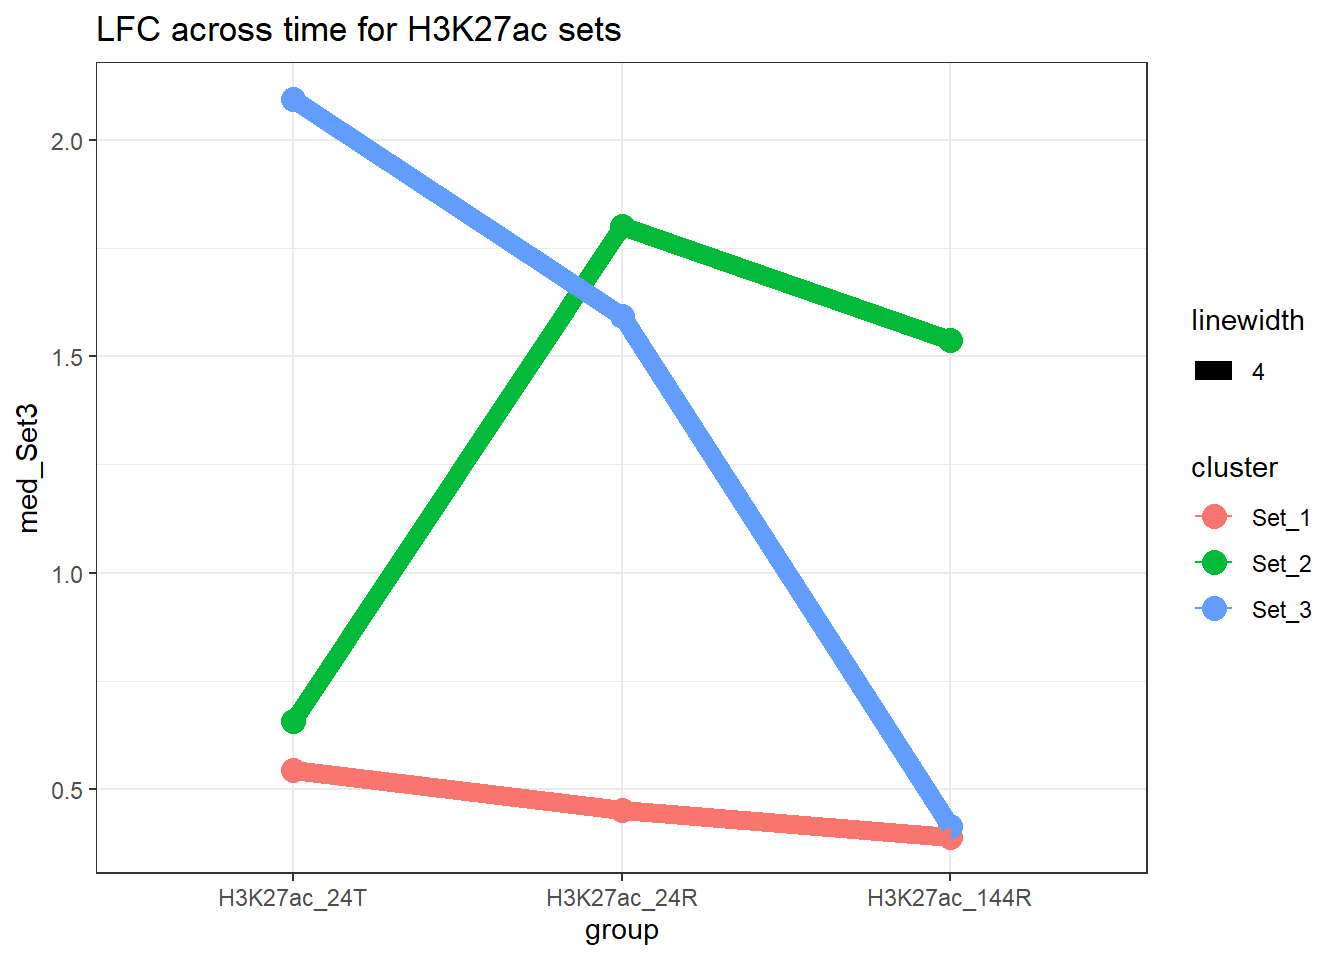
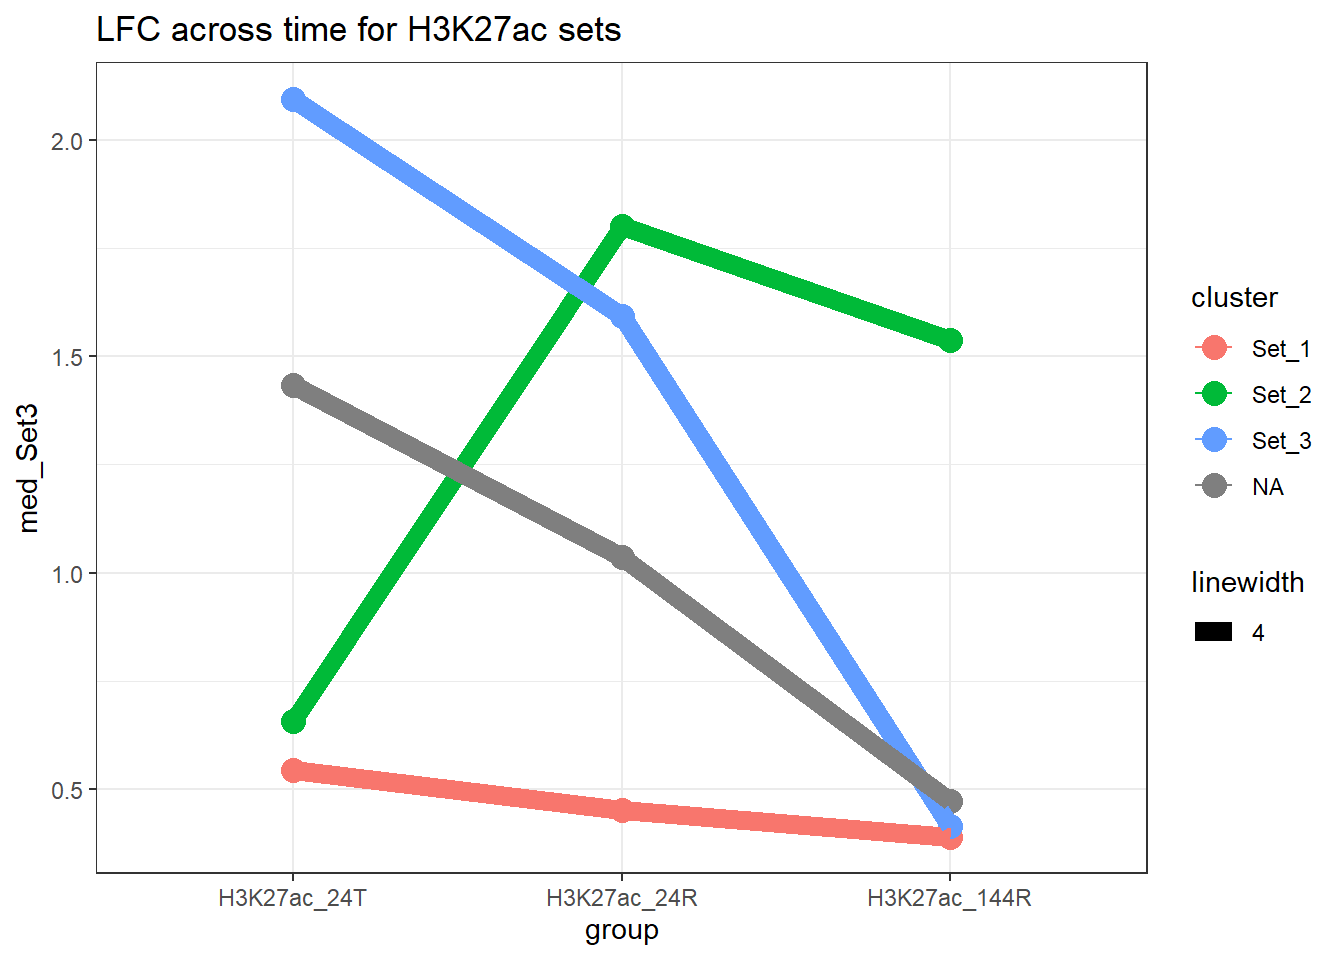
Build site.

diff --git a/docs/Main_fig1.html b/docs/Main_fig1.html
@@ -11,7 +11,7 @@
 
 <meta name="author" content="Renee Matthews" />
 
-<meta name="date" content="2026-07-20" />
+<meta name="date" content="2026-08-21" />
 
 <title>Main_fig1</title>
 
@@ -361,7 +361,7 @@ div.tocify {
 
 <h1 class="title toc-ignore">Main_fig1</h1>
 <h4 class="author">Renee Matthews</h4>
-<h4 class="date">2026-07-20</h4>
+<h4 class="date">2026-08-21</h4>
 
 </div>
 
@@ -390,7 +390,7 @@ class="glyphicon glyphicon-ok text-success" aria-hidden="true"></span>
 <div class="tab-content">
 <div id="summary" class="tab-pane fade in active">
 <p>
-<strong>Last updated:</strong> 2026-07-20
+<strong>Last updated:</strong> 2026-08-21
 </p>
 <p>
 <strong>Checks:</strong> <span
@@ -521,15 +521,15 @@ project makes it easier to run your code on other machines.</p>
 <div class="panel panel-default">
 <div class="panel-heading">
 <p class="panel-title">
-<a data-toggle="collapse" data-parent="#workflowr-checks" href="#strongRepositoryversionstrongahrefhttpsgithubcomreneeisnowhereDXRcontinuetreeb9173c8154a427a58d89be79168cbc61f52759fatargetblankb9173c8a">
+<a data-toggle="collapse" data-parent="#workflowr-checks" href="#strongRepositoryversionstrongahrefhttpsgithubcomreneeisnowhereDXRcontinuetreea45ca2baa2bdefe1293c4c56df5572c2596679detargetblanka45ca2ba">
 <span class="glyphicon glyphicon-ok text-success"
 aria-hidden="true"></span> <strong>Repository version:</strong>
-<a href="https://github.com/reneeisnowhere/DXR_continue/tree/b9173c8154a427a58d89be79168cbc61f52759fa" target="_blank">b9173c8</a>
+<a href="https://github.com/reneeisnowhere/DXR_continue/tree/a45ca2baa2bdefe1293c4c56df5572c2596679de" target="_blank">a45ca2b</a>
 </a>
 </p>
 </div>
 <div
[2 lines of base64/hex data omitted]
 class="panel-collapse collapse">
 <div class="panel-body">
 <p>
@@ -539,7 +539,7 @@ reproducibility.
 </p>
 <p>
 The results in this page were generated with repository version
-<a href="https://github.com/reneeisnowhere/DXR_continue/tree/b9173c8154a427a58d89be79168cbc61f52759fa" target="_blank">b9173c8</a>.
+<a href="https://github.com/reneeisnowhere/DXR_continue/tree/a45ca2baa2bdefe1293c4c56df5572c2596679de" target="_blank">a45ca2b</a>.
 See the <em>Past versions</em> tab to see a history of the changes made
 to the R Markdown and HTML files.
 </p>
@@ -571,8 +571,6 @@ Ignored files:
     Ignored:    data/cell_line_info_.tsv
     Ignored:    data/full_p53_canonical.RDS
     Ignored:    data/full_summary_QC_metrics.txt
-    Ignored:    data/hg38_gene_promotors_2kb_up_500bp_down.bed
-    Ignored:    data/hg38_genes.bed
     Ignored:    data/lookup_table_andstuff.txt
     Ignored:    data/motif_lists/
     Ignored:    data/number_frag_peaks_summary.txt
@@ -588,22 +586,26 @@ Untracked files:
     Untracked:  analysis/H3K27ac_TE_investigation_200bp.Rmd
     Untracked:  analysis/H3K27me3_TE_investigation.Rmd
     Untracked:  analysis/H3K36me3_TE_investigation.Rmd
+    Untracked:  analysis/HIstone_supp_profiles.Rmd
     Untracked:  analysis/Top2a_Top2b_expression.Rmd
     Untracked:  analysis/drill_down_KZFPs.Rmd
     Untracked:  analysis/maps_and_plots.Rmd
     Untracked:  analysis/proteomics.Rmd
     Untracked:  code/For_john.R
-    Untracked:  code/Gene_promotor_script.R
+    Untracked:  code/RNA_gene_locations.R
+    Untracked:  code/State_color_code_igv.R
     Untracked:  code/score_phylop.py
+    Untracked:  hg38_TSS_1bp.bed
     Untracked:  other_analysis/
 
 Unstaged changes:
     Modified:   analysis/Goanalysis_TFs.Rmd
     Modified:   analysis/H3K27_TE_overlap_extend.Rmd
+    Modified:   analysis/H3K27ac_TEtype.Rmd
     Modified:   analysis/H3K27ac_cisRE.Rmd
-    Modified:   analysis/LTR10E_build.Rmd
-    Modified:   analysis/MER61E_build.Rmd
-    Modified:   analysis/chromHMM_2.Rmd
+    Modified:   analysis/chromHMM.Rmd
+    Modified:   analysis/computeMatrixplots.Rmd
+    Modified:   analysis/supp_fig.Rmd
     Modified:   code/corMotifcustom.R
 
 </code></pre>
@@ -649,6 +651,40 @@ Message
 </tr>
 </thead>
 <tbody>
+<tr>
+<td>
+Rmd
+</td>
+<td>
+<a href="https://github.com/reneeisnowhere/DXR_continue/blob/a45ca2baa2bdefe1293c4c56df5572c2596679de/analysis/Main_fig1.Rmd" target="_blank">a45ca2b</a>
+</td>
+<td>
+reneeisnowhere
+</td>
+<td>
+2026-08-21
+</td>
+<td>
+wflow_publish("analysis/Main_fig1.Rmd")
+</td>
+</tr>
+<tr>
+<td>
+html
+</td>
+<td>
+<a href="https://rawcdn.githack.com/reneeisnowhere/DXR_continue/2b5877c3215dcd197f03405c1fe7d087d7b0446c/docs/Main_fig1.html" target="_blank">2b5877c</a>
+</td>
+<td>
+reneeisnowhere
+</td>
+<td>
+2026-07-20
+</td>
+<td>
+Build site.
+</td>
+</tr>
 <tr>
 <td>
 Rmd
@@ -782,6 +818,43 @@ pca_plot(
   title = &quot;H3K27ac filtered lcpm PCA&quot;
 )   +theme_bw() </code></pre>
 <p><img src="figure/Main_fig1.Rmd/PCA-1.png" alt="" width="672" style="display: block; margin: auto;" /></p>
+<p>
+<button type="button" class="btn btn-default btn-xs btn-workflowr btn-workflowr-fig" data-toggle="collapse" data-target="#fig-PCA-1">
+Past versions of PCA-1.png
+</button>
+</p>
+<div id="fig-PCA-1" class="collapse">
+<div class="table-responsive">
+<table class="table table-condensed table-hover">
+<thead>
+<tr>
+<th>
+Version
+</th>
+<th>
+Author
+</th>
+<th>
+Date
+</th>
+</tr>
+</thead>
+<tbody>
+<tr>
+<td>
+<a href="https://github.com/reneeisnowhere/DXR_continue/blob/2b5877c3215dcd197f03405c1fe7d087d7b0446c/docs/figure/Main_fig1.Rmd/PCA-1.png" target="_blank">2b5877c</a>
+</td>
+<td>
+reneeisnowhere
+</td>
+<td>
+2026-07-20
+</td>
+</tr>
+</tbody>
+</table>
+</div>
+</div>
 <pre class="r"><code>all_H3K27ac_regions &lt;- peakAnnoList_H3K27ac$all_H3K27ac %&gt;% as.data.frame() %&gt;% dplyr::select(Peakid)
 
 all_H3K27ac_regions %&gt;%  
@@ -807,8 +880,45 @@ all_H3K27ac_regions %&gt;%
   ) +
   theme_classic()</code></pre>
 <p><img src="figure/Main_fig1.Rmd/H3K27ac_prop-1.png" alt="" width="672" style="display: block; margin: auto;" /></p>
+<p>
+<button type="button" class="btn btn-default btn-xs btn-workflowr btn-workflowr-fig" data-toggle="collapse" data-target="#fig-H3K27ac_prop-1">
+Past versions of H3K27ac_prop-1.png
+</button>
+</p>
+<div id="fig-H3K27ac_prop-1" class="collapse">
+<div class="table-responsive">
+<table class="table table-condensed table-hover">
+<thead>
+<tr>
+<th>
+Version
+</th>
+<th>
+Author
+</th>
+<th>
+Date
+</th>
+</tr>
+</thead>
+<tbody>
+<tr>
+<td>
+<a href="https://github.com/reneeisnowhere/DXR_continue/blob/2b5877c3215dcd197f03405c1fe7d087d7b0446c/docs/figure/Main_fig1.Rmd/H3K27ac_prop-1.png" target="_blank">2b5877c</a>
+</td>
+<td>
+reneeisnowhere
+</td>
+<td>
+2026-07-20
+</td>
+</tr>
+</tbody>
+</table>
+</div>
+</div>
 <pre class="r"><code> H3K27ac_toptable_list %&gt;%
-  dplyr::filter(genes %in% H3K27ac_lookup$Peakid) %&gt;% 
+  # dplyr::filter(genes %in% H3K27ac_lookup$Peakid) %&gt;% 
   dplyr::select(group,genes,logFC) %&gt;%
   left_join(H3K27ac_lookup,by=c(&quot;genes&quot;=&quot;Peakid&quot;)) %&gt;% 
   mutate(group=factor(group, levels = c(&quot;H3K27ac_24T&quot;,&quot;H3K27ac_24R&quot;,&quot;H3K27ac_144R&quot;)),
@@ -822,6 +932,43 @@ all_H3K27ac_regions %&gt;%
   theme_bw()+
   ggtitle(&quot;LFC across time for H3K27ac sets&quot;)</code></pre>
 <p><img src="figure/Main_fig1.Rmd/LFC-1.png" alt="" width="672" style="display: block; margin: auto;" /></p>
+<p>
+<button type="button" class="btn btn-default btn-xs btn-workflowr btn-workflowr-fig" data-toggle="collapse" data-target="#fig-LFC-1">
+Past versions of LFC-1.png
+</button>
+</p>
+<div id="fig-LFC-1" class="collapse">
+<div class="table-responsive">
+<table class="table table-condensed table-hover">
+<thead>
+<tr>
+<th>
+Version
+</th>
+<th>
+Author
+</th>
+<th>
+Date
+</th>
+</tr>
+</thead>
+<tbody>
+<tr>
+<td>
+<a href="https://github.com/reneeisnowhere/DXR_continue/blob/2b5877c3215dcd197f03405c1fe7d087d7b0446c/docs/figure/Main_fig1.Rmd/LFC-1.png" target="_blank">2b5877c</a>
+</td>
+<td>
+reneeisnowhere
+</td>
+<td>
+2026-07-20
+</td>
+</tr>
+</tbody>
+</table>
+</div>
+</div>
 <pre class="r"><code>H3K27ac_Set2_data &lt;- readRDS(&quot;data/RDS_files/H3K27ac_Set2_enrmotif_data.RDS&quot;)
 H3K27ac_Set3_data &lt;- readRDS(&quot;data/RDS_files/H3K27ac_Set3_enrmotif_data.RDS&quot;)
 RNA_full_toptable &lt;-  readRDS(&quot;data/Other_paper_data/RNA_full_toptable.RDS&quot;)
@@ -905,6 +1052,43 @@ cowplot::plot_grid(aligned_filt_plots[[1]],
           aligned_filt_plots[[2]],
           ncol = 2)</code></pre>
 <p><img src="figure/Main_fig1.Rmd/TFplot-1.png" alt="" width="768" style="display: block; margin: auto;" /></p>
+<p>
+<button type="button" class="btn btn-default btn-xs btn-workflowr btn-workflowr-fig" data-toggle="collapse" data-target="#fig-TFplot-1">
+Past versions of TFplot-1.png
+</button>
+</p>
+<div id="fig-TFplot-1" class="collapse">
+<div class="table-responsive">
+<table class="table table-condensed table-hover">
+<thead>
+<tr>
+<th>
+Version
+</th>
+<th>
+Author
+</th>
+<th>
+Date
+</th>
+</tr>
+</thead>
+<tbody>
+<tr>
+<td>
+<a href="https://github.com/reneeisnowhere/DXR_continue/blob/2b5877c3215dcd197f03405c1fe7d087d7b0446c/docs/figure/Main_fig1.Rmd/TFplot-1.png" target="_blank">2b5877c</a>
+</td>
+<td>
+reneeisnowhere
+</td>
+<td>
+2026-07-20
+</td>
+</tr>
+</tbody>
+</table>
+</div>
+</div>
 <br>
 <p>
 <button type="button" class="btn btn-default btn-workflowr btn-workflowr-sessioninfo" data-toggle="collapse" data-target="#workflowr-sessioninfo" style="display: block;">
